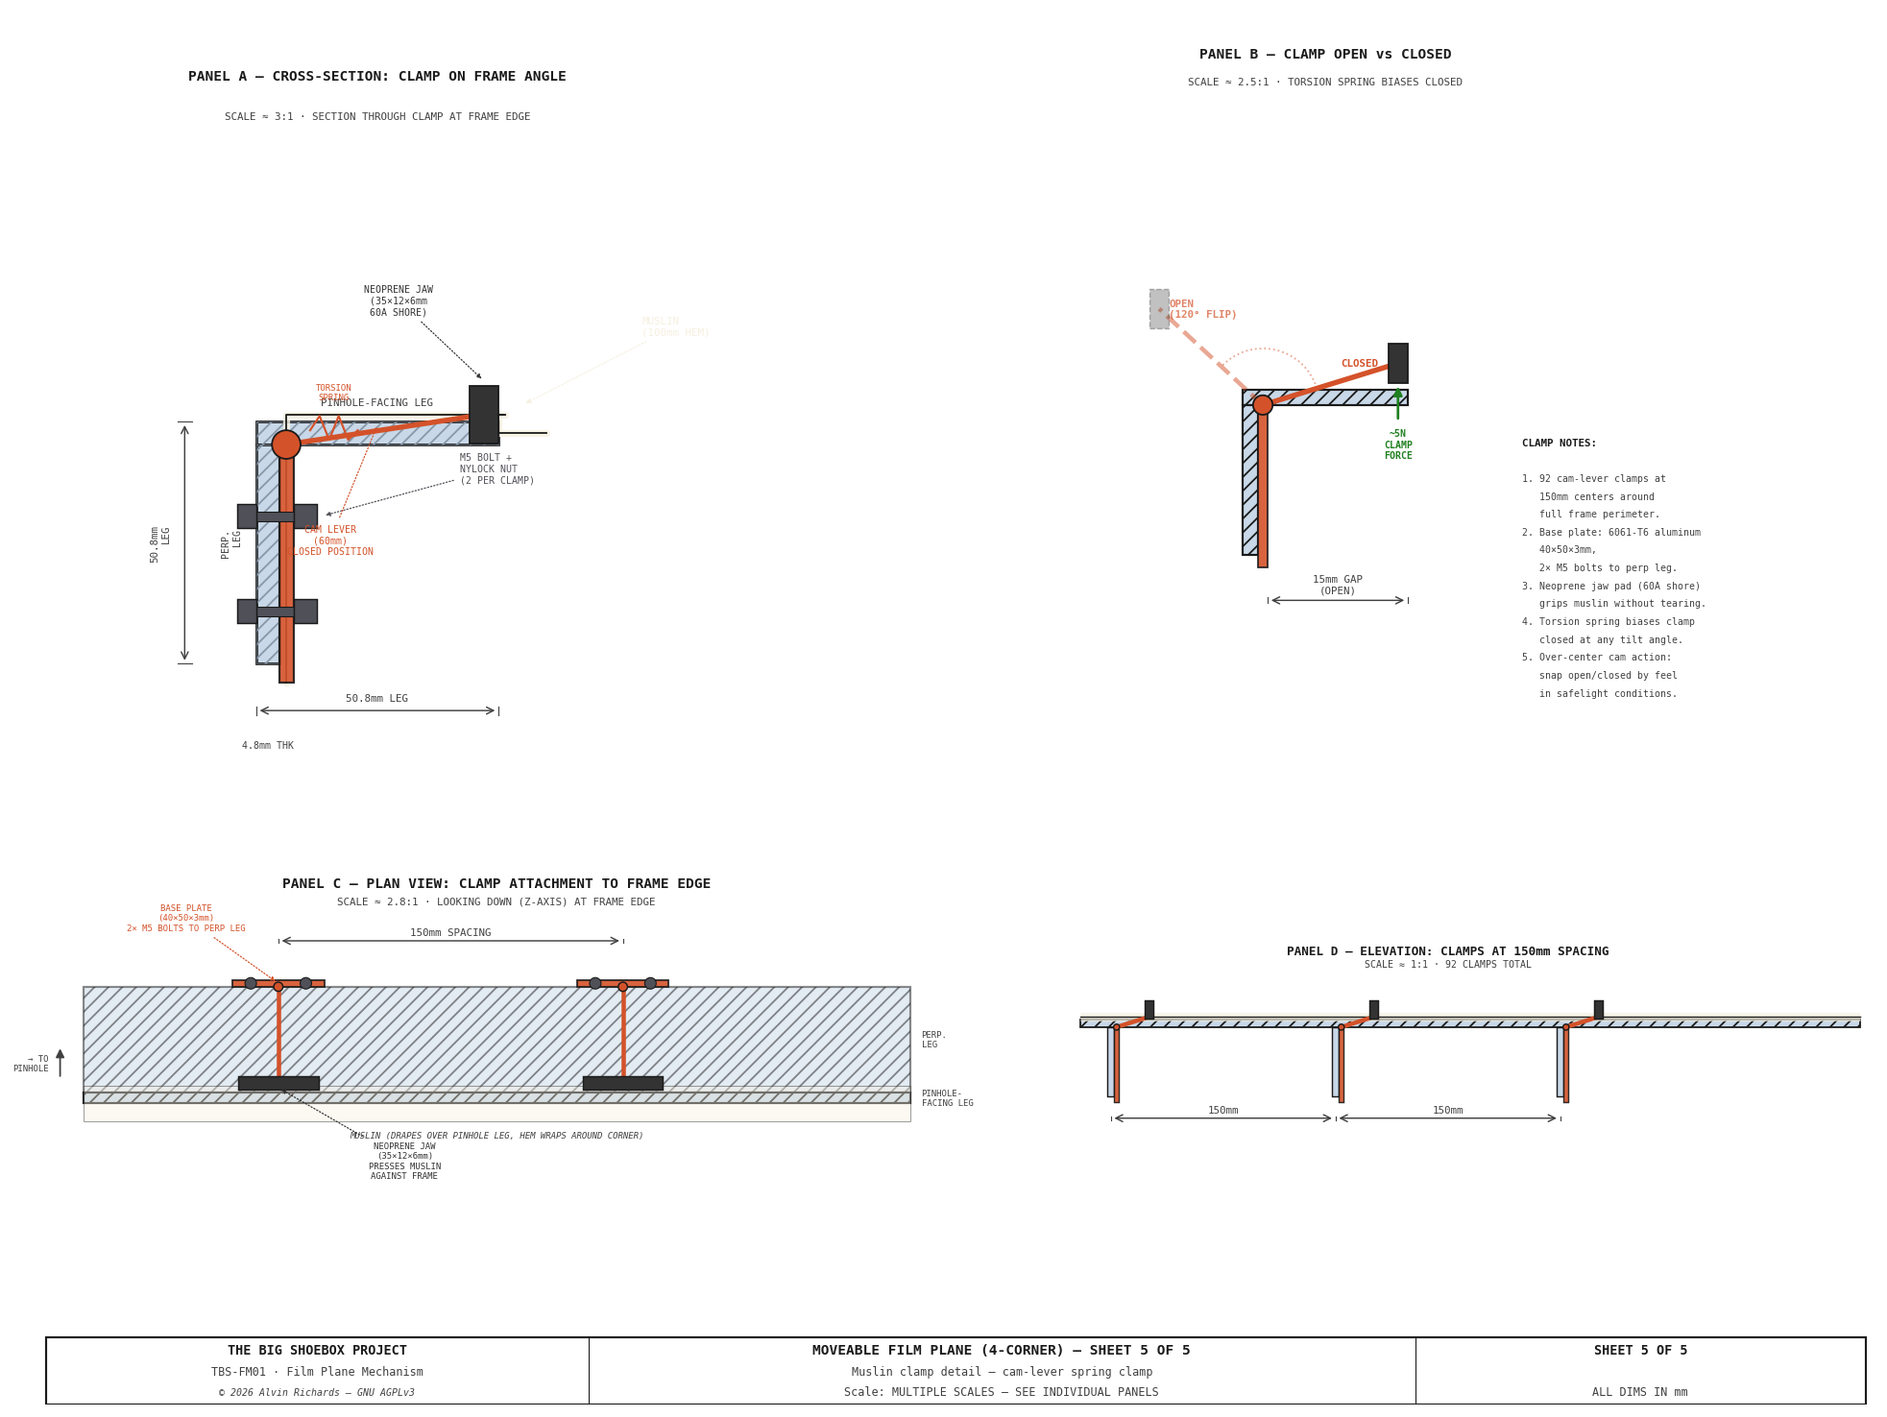
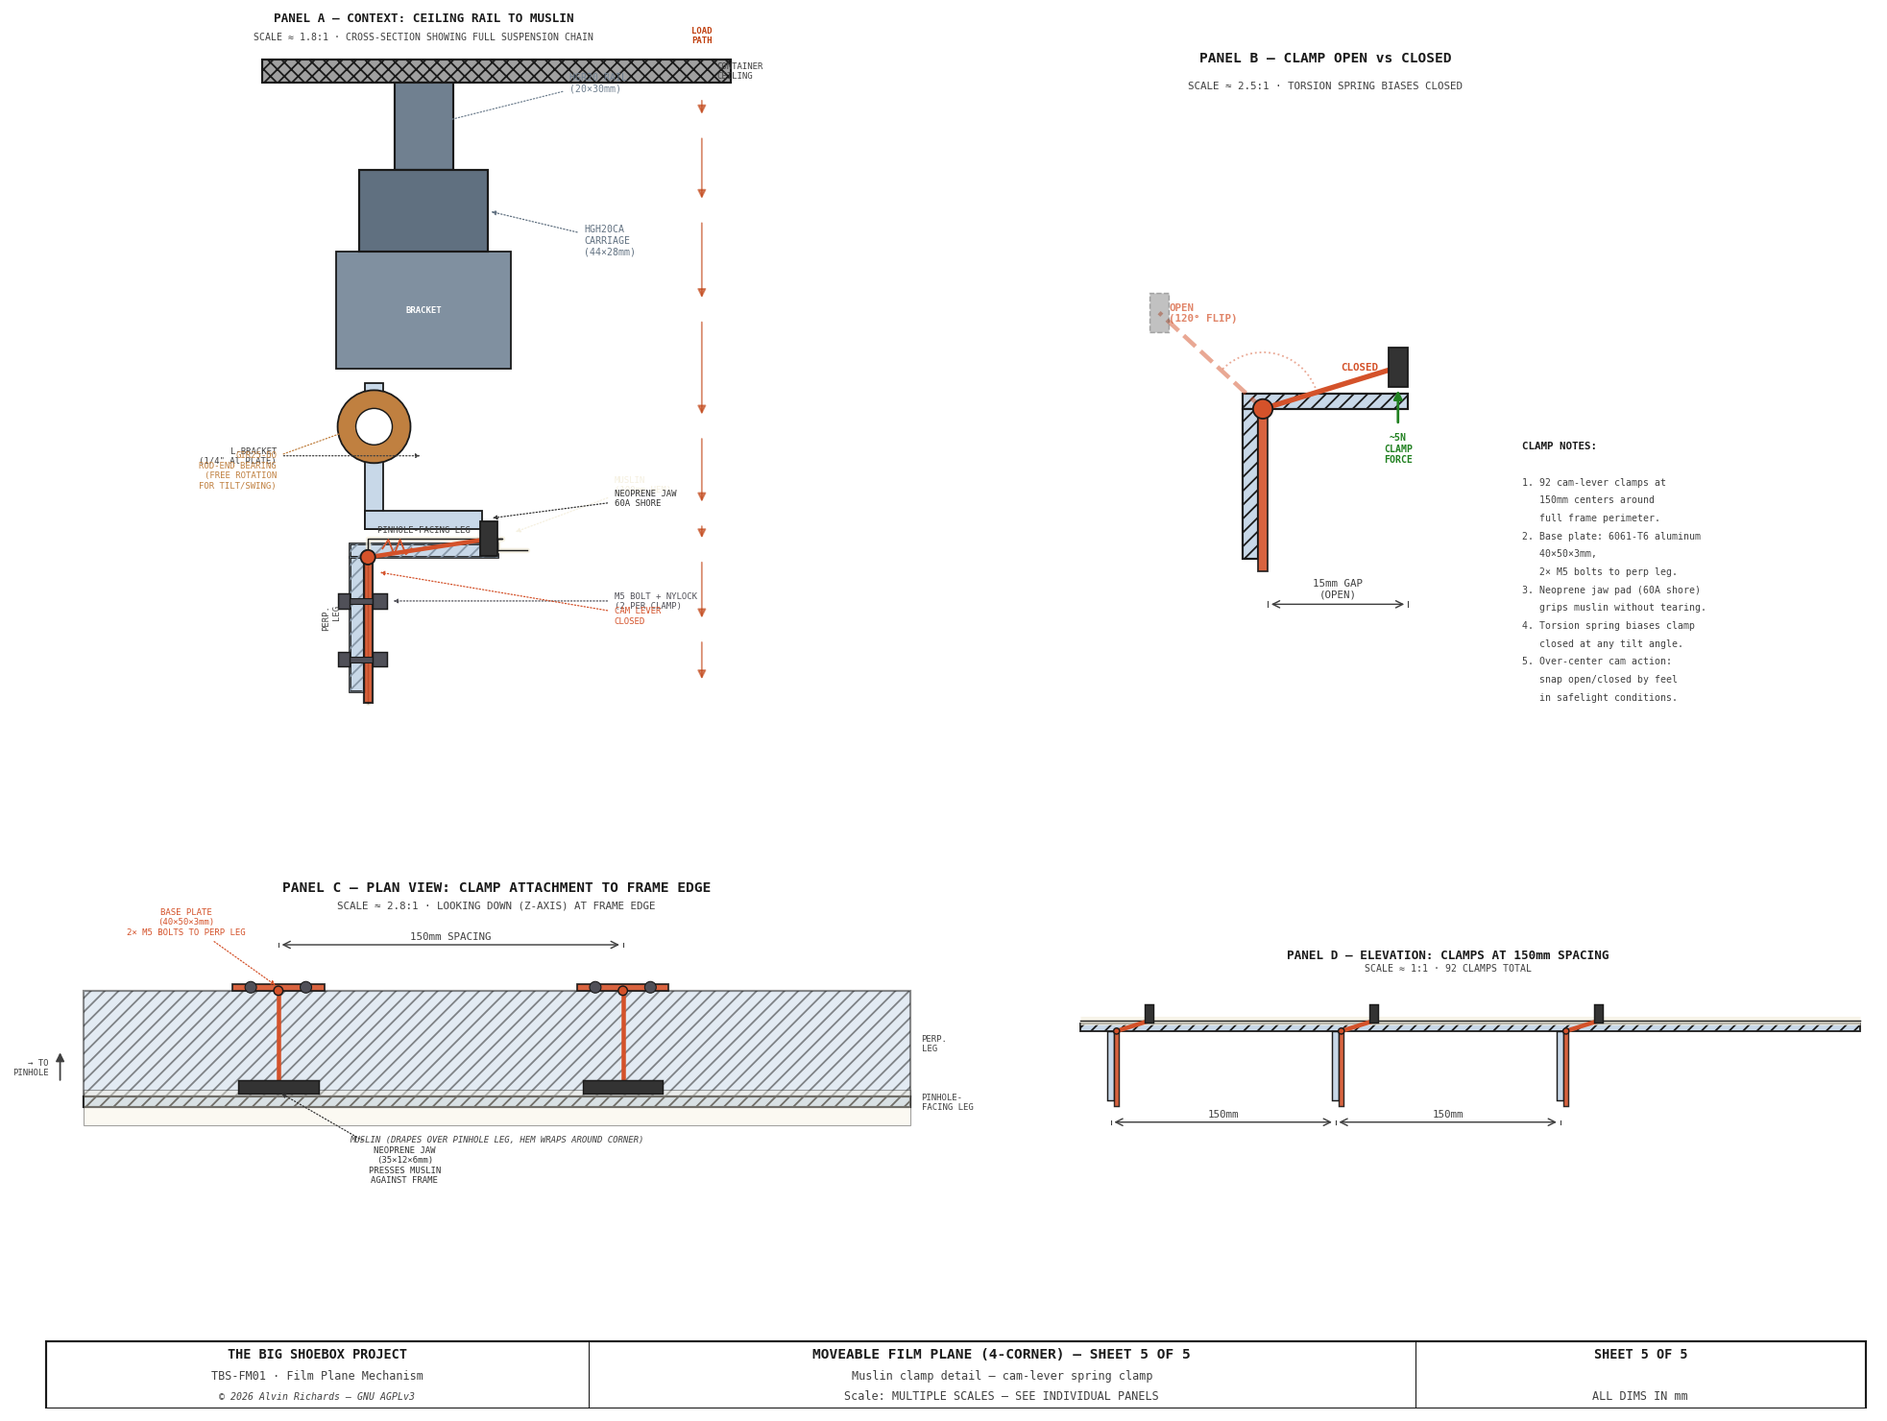
Expand sheet 5 Panel A to show full ceiling-to-muslin context
Replace isolated clamp cross-section with full suspension chain:
ceiling → HGR20 rail → HGH20CA carriage → bracket → L-bracket →
GIR25-DO rod-end bearing → angle frame → clamp → muslin. Load
path arrows annotate the vertical chain. Scale reduced to 1.8:1
to fit the full vertical extent.

diff --git a/generate_film_plane_mechanism.py b/generate_film_plane_mechanism.py
@@ -930,153 +930,258 @@ def sheet5():
     fig = plt.figure(figsize=(16, 12))
     fig.patch.set_facecolor(BG)
 
-    # ── PANEL A: Cross-section of clamp on frame angle (top-left) ────────────
+    # ── PANEL A: Context cross-section — ceiling rail to muslin (top-left) ────
     ax_a = fig.add_axes([0.04, 0.45, 0.46, 0.48])
     ax_a.set_facecolor(BG)
     ax_a.axis("off")
 
-    S = 3.0  # scale factor for panel A
+    S = 1.8  # reduced scale to fit full vertical chain
     def sa(mm): return mm * S
 
     LEG = FP_ANGLE_LEG   # 50.8mm
     T   = FP_ANGLE_T     # 4.8mm
 
-    # Coordinate system: pinhole-facing leg is horizontal (Yd axis),
-    # perpendicular leg is vertical (Z axis). Corner of angle at origin.
-    ax_a.set_xlim(sa(-30), sa(LEG + 80))
-    ax_a.set_ylim(sa(-60), sa(LEG + 40))
+    # Geometry constants for the suspension chain
+    RAIL_H = 30       # HGR20 rail height
+    RAIL_W = 20       # HGR20 rail visible width
+    CARRIAGE_H = 28   # HGH20CA carriage height
+    CARRIAGE_W = 44   # HGH20CA carriage width
+    BRACKET_H = 40    # suspension bracket height
+    BRACKET_W = 60    # suspension bracket width
+    LBRACKET_H = 50   # corner L-bracket vertical extent
+    LBRACKET_W = 40   # corner L-bracket horizontal extent
+    LBRACKET_T = 6    # 1/4" aluminum plate
+    BEARING_D = 25    # GIR25-DO rod-end bore
+    CEILING_T = 8     # visual ceiling thickness
+
+    # Coordinate system: angle corner at (0, 0).
+    # Positive Y = up toward ceiling. Negative Y = down toward floor.
+    # Positive X = toward pinhole (horizontal leg direction).
+
+    # Stack heights above angle frame top (Y=T):
+    lbracket_bot = T + 5          # small gap above angle
+    lbracket_top = lbracket_bot + LBRACKET_H
+    bearing_cy = lbracket_top - 15  # bearing center in L-bracket
+    bracket_bot = lbracket_top + 5
+    bracket_top = bracket_bot + BRACKET_H
+    carriage_bot = bracket_top
+    carriage_top = carriage_bot + CARRIAGE_H
+    rail_bot = carriage_top
+    rail_top = rail_bot + RAIL_H
+    ceiling_bot = rail_top
+    ceiling_top = ceiling_bot + CEILING_T
+
+    ax_a.set_xlim(sa(-35), sa(LEG + 85))
+    ax_a.set_ylim(sa(-LEG - 10), sa(ceiling_top + 15))
     ax_a.set_aspect("equal")
 
-    # Aluminum angle — L-profile
-    # Pinhole-facing leg: horizontal, from (0,0) to (LEG, T)
+    # ── Ceiling ──────────────────────────────────────────────────────────────
+    C_CEIL = "#A0A0A0"
+    ax_a.add_patch(Rectangle((sa(-30), sa(ceiling_bot)),
+                              sa(LEG + 110), sa(CEILING_T),
+                              fc=C_CEIL, ec=ANNO, lw=1.2, hatch="xxx", zorder=3))
+    ax_a.text(sa(LEG + 75), sa(ceiling_bot + CEILING_T / 2),
+              "CONTAINER\nCEILING", ha="left", va="center",
+              fontsize=5, color=DIM, **FONT, zorder=15)
+
+    # ── HGR20 Rail (bolted to ceiling, hangs down) ───────────────────────────
+    C_RAIL = "#708090"
+    rail_cx = LEG / 2  # centered on angle
+    ax_a.add_patch(Rectangle((sa(rail_cx - RAIL_W / 2), sa(rail_bot)),
+                              sa(RAIL_W), sa(RAIL_H),
+                              fc=C_RAIL, ec=ANNO, lw=1.2, zorder=4))
+    leader(ax_a, sa(rail_cx), sa(rail_bot + RAIL_H / 2),
+           sa(rail_cx + 50), sa(rail_bot + RAIL_H / 2 + 15),
+           f"HGR20 RAIL\n({RAIL_W}×{RAIL_H}mm)",
+           color=C_RAIL, fs=5.5, ha="left", va="center",
+           arrow_style="-|>", font=FONT)
+
+    # ── HGH20CA Carriage block ───────────────────────────────────────────────
+    C_CARR = "#607080"
+    ax_a.add_patch(Rectangle((sa(rail_cx - CARRIAGE_W / 2), sa(carriage_bot)),
+                              sa(CARRIAGE_W), sa(CARRIAGE_H),
+                              fc=C_CARR, ec=ANNO, lw=1.2, zorder=5))
+    leader(ax_a, sa(rail_cx + CARRIAGE_W / 2), sa(carriage_bot + CARRIAGE_H / 2),
+           sa(rail_cx + 55), sa(carriage_bot + CARRIAGE_H / 2 - 10),
+           f"HGH20CA\nCARRIAGE\n({CARRIAGE_W}×{CARRIAGE_H}mm)",
+           color=C_CARR, fs=5.5, ha="left", va="center",
+           arrow_style="-|>", font=FONT)
+
+    # ── Suspension bracket ───────────────────────────────────────────────────
+    C_BRKT = "#8090A0"
+    ax_a.add_patch(Rectangle((sa(rail_cx - BRACKET_W / 2), sa(bracket_bot)),
+                              sa(BRACKET_W), sa(BRACKET_H),
+                              fc=C_BRKT, ec=ANNO, lw=1.0, zorder=4))
+    ax_a.text(sa(rail_cx), sa(bracket_bot + BRACKET_H / 2),
+              "BRACKET", ha="center", va="center",
+              fontsize=5, color="white", fontweight="bold", **FONT, zorder=15)
+
+    # ── Corner L-bracket (1/4" Al plate) ─────────────────────────────────────
+    # Vertical part connects to bracket above; horizontal part connects to angle
+    lbk_x = rail_cx - LBRACKET_W / 2
+    # Vertical arm
+    ax_a.add_patch(Rectangle((sa(lbk_x), sa(lbracket_bot)),
+                              sa(LBRACKET_T), sa(LBRACKET_H),
+                              fc=C_ALUM, ec=ANNO, lw=1.0, zorder=4))
+    # Horizontal arm (connects to angle frame)
+    ax_a.add_patch(Rectangle((sa(lbk_x), sa(lbracket_bot)),
+                              sa(LBRACKET_W), sa(LBRACKET_T),
+                              fc=C_ALUM, ec=ANNO, lw=1.0, zorder=4))
+    leader(ax_a, sa(lbk_x + LBRACKET_W / 2), sa(lbracket_bot + LBRACKET_H / 2),
+           sa(-25), sa(lbracket_bot + LBRACKET_H / 2),
+           f"L-BRACKET\n(1/4\" Al PLATE)",
+           color=DIM, fs=5, ha="right", va="center",
+           arrow_style="-|>", font=FONT)
+
+    # ── Rod-end spherical bearing ────────────────────────────────────────────
+    C_BEAR = "#C08040"
+    ax_a.add_patch(Circle((sa(lbk_x + LBRACKET_T / 2), sa(bearing_cy)),
+                           sa(BEARING_D / 2),
+                           fc=C_BEAR, ec=ANNO, lw=1.0, zorder=6))
+    ax_a.add_patch(Circle((sa(lbk_x + LBRACKET_T / 2), sa(bearing_cy)),
+                           sa(BEARING_D / 4),
+                           fc=BG, ec=ANNO, lw=0.8, zorder=7))
+    leader(ax_a, sa(lbk_x - 2), sa(bearing_cy),
+           sa(-25), sa(bearing_cy - 15),
+           f"GIR25-DO\nROD-END BEARING\n(FREE ROTATION\nFOR TILT/SWING)",
+           color=C_BEAR, fs=5, ha="right", va="center",
+           arrow_style="-|>", font=FONT)
+
+    # ── Aluminum angle — L-profile ───────────────────────────────────────────
+    # Pinhole-facing leg: horizontal
     ax_a.add_patch(Rectangle((sa(0), sa(0)), sa(LEG), sa(T),
                               fc=C_ALUM, ec=ANNO, lw=1.5, zorder=3))
-    # Perpendicular leg: vertical, from (0,0) to (T, -LEG) [going down]
+    # Perpendicular leg: vertical (going down)
     ax_a.add_patch(Rectangle((sa(0), sa(-LEG + T)), sa(T), sa(LEG - T),
                               fc=C_ALUM, ec=ANNO, lw=1.5, zorder=3))
-    # Hatching for angle cross-section
+    # Hatching
     ax_a.add_patch(Rectangle((sa(0), sa(0)), sa(LEG), sa(T),
                               fc="none", ec="#8898A8", lw=0.3, hatch="///", zorder=4))
     ax_a.add_patch(Rectangle((sa(0), sa(-LEG + T)), sa(T), sa(LEG - T),
                               fc="none", ec="#8898A8", lw=0.3, hatch="///", zorder=4))
 
     ax_a.text(sa(LEG / 2), sa(T + 3), "PINHOLE-FACING LEG",
-              ha="center", va="bottom", fontsize=6, color=DIM, **FONT, zorder=15)
+              ha="center", va="bottom", fontsize=5, color=DIM, **FONT, zorder=15)
     ax_a.text(sa(-3), sa(-LEG / 2 + T), "PERP.\nLEG",
-              ha="right", va="center", fontsize=5.5, color=DIM, rotation=90, **FONT, zorder=15)
+              ha="right", va="center", fontsize=5, color=DIM, rotation=90, **FONT, zorder=15)
 
     # ── Muslin wrap path ──────────────────────────────────────────────────────
-    # Muslin drapes over pinhole-facing leg, wraps around outside corner,
-    # hem hangs down along outside of perpendicular leg.
-    muslin_t = 1.5  # visual thickness for muslin line
-    hem_end = -CLAMP_BASE_H  # hem hangs to about here on perp leg
+    muslin_t = 1.5
+    hem_end = -CLAMP_BASE_H
 
-    # Path: from right side of pinhole leg, over top, around corner, down perp leg
     muslin_pts_x = [sa(LEG + 10), sa(LEG), sa(LEG), sa(LEG + muslin_t),
                     sa(LEG + muslin_t), sa(T + muslin_t), sa(T + muslin_t)]
     muslin_pts_y = [sa(T / 2), sa(T / 2), sa(T + muslin_t), sa(T + muslin_t),
                     sa(T + muslin_t), sa(T + muslin_t), sa(hem_end)]
 
-    ax_a.plot(muslin_pts_x, muslin_pts_y, color=C_MUSLIN, lw=4, solid_capstyle="round",
+    ax_a.plot(muslin_pts_x, muslin_pts_y, color=C_MUSLIN, lw=3, solid_capstyle="round",
               zorder=5, alpha=0.8)
-    ax_a.plot(muslin_pts_x, muslin_pts_y, color=ANNO, lw=1.0, zorder=6)
+    ax_a.plot(muslin_pts_x, muslin_pts_y, color=ANNO, lw=0.8, zorder=6)
 
     leader(ax_a, sa(LEG + 5), sa(T + muslin_t + 2),
-           sa(LEG + 30), sa(T + 20),
-           "MUSLIN\n(100mm HEM)", color=C_MUSLIN, fs=6,
+           sa(LEG + 40), sa(T + 20),
+           "MUSLIN\n(100mm HEM)", color=C_MUSLIN, fs=5,
            ha="left", va="center", arrow_style="-|>", font=FONT)
 
-    # ── Clamp base plate (bolted to perpendicular leg) ────────────────────────
-    base_x = T  # outer face of perp leg
-    base_y_top = 0
+    # ── Clamp base plate ─────────────────────────────────────────────────────
+    base_x = T
     base_y_bot = -CLAMP_BASE_H
     ax_a.add_patch(Rectangle((sa(base_x), sa(base_y_bot)),
                               sa(CLAMP_BASE_T), sa(CLAMP_BASE_H),
                               fc=C_CLAMP, ec=ANNO, lw=1.2, zorder=7, alpha=0.9))
 
-    # M5 bolts through base plate + perpendicular leg
+    # M5 bolts
     bolt_z1 = -15
     bolt_z2 = -35
     bolt_d = 5
     for bz in [bolt_z1, bolt_z2]:
-        # Shank through perp leg + base plate
         ax_a.add_patch(Rectangle((sa(0), sa(bz - bolt_d * 0.2)),
                                   sa(T + CLAMP_BASE_T), sa(bolt_d * 0.4),
                                   fc=C_BOLT, ec=ANNO, lw=0.6, zorder=10))
-        # Head on inside of perp leg
         ax_a.add_patch(Rectangle((sa(-4), sa(bz - bolt_d * 0.5)),
                                   sa(4), sa(bolt_d),
                                   fc=C_BOLT, ec=ANNO, lw=0.8, zorder=10))
-        # Nylock nut on outside
         ax_a.add_patch(Rectangle((sa(T + CLAMP_BASE_T), sa(bz - bolt_d * 0.5)),
                                   sa(5), sa(bolt_d),
                                   fc=C_BOLT, ec=ANNO, lw=0.8, zorder=10))
 
-    leader(ax_a, sa(T + CLAMP_BASE_T + 6), sa(bolt_z1),
-           sa(T + CLAMP_BASE_T + 35), sa(bolt_z1 + 10),
-           f"M5 BOLT +\nNYLOCK NUT\n(2 PER CLAMP)", color=C_BOLT, fs=5.5,
-           ha="left", va="center", arrow_style="-|>", font=FONT)
+    # ── Cam lever + jaw (closed) ─────────────────────────────────────────────
+    pivot_x = T + CLAMP_BASE_T / 2
+    pivot_z = 0
 
-    # ── Cam lever + jaw (closed position) ─────────────────────────────────────
-    # Pivot at top of base plate, jaw presses muslin against pinhole-facing leg
-    pivot_x = T + CLAMP_BASE_T / 2  # center of base plate
-    pivot_z = 0  # top of base plate = corner of angle
-
-    # Jaw pad (pressed against pinhole-facing leg outer face)
-    jaw_x = LEG - CLAMP_JAW_T  # against outer face of pinhole leg
+    jaw_x = LEG - CLAMP_JAW_T
     jaw_z_top = T + muslin_t + CLAMP_JAW_H / 2
     jaw_z_bot = T + muslin_t - CLAMP_JAW_H / 2
     ax_a.add_patch(Rectangle((sa(jaw_x), sa(jaw_z_bot)),
                               sa(CLAMP_JAW_T), sa(CLAMP_JAW_H),
                               fc=C_NEOP, ec=ANNO, lw=1.0, zorder=8))
 
-    # Lever arm from pivot to jaw
     ax_a.plot([sa(pivot_x), sa(jaw_x + CLAMP_JAW_T / 2)],
               [sa(pivot_z), sa(T + muslin_t)],
-              color=C_CLAMP, lw=3, solid_capstyle="round", zorder=7)
+              color=C_CLAMP, lw=2.5, solid_capstyle="round", zorder=7)
 
-    # Pivot circle
-    ax_a.add_patch(Circle((sa(pivot_x), sa(pivot_z)), sa(3),
+    ax_a.add_patch(Circle((sa(pivot_x), sa(pivot_z)), sa(2.5),
                            fc=C_CLAMP, ec=ANNO, lw=1.0, zorder=9))
 
-    # Spring schematic (small zigzag near pivot)
+    # Spring schematic
     sp_x = pivot_x + 5
     sp_z = pivot_z + 3
     spring_xs = [sa(sp_x), sa(sp_x + 2), sa(sp_x + 4), sa(sp_x + 6),
                  sa(sp_x + 8), sa(sp_x + 10)]
     spring_zs = [sa(sp_z), sa(sp_z + 3), sa(sp_z - 2), sa(sp_z + 3),
                  sa(sp_z - 2), sa(sp_z)]
-    ax_a.plot(spring_xs, spring_zs, color=C_CLAMP, lw=1.2, zorder=8)
-    ax_a.text(sa(sp_x + 5), sa(sp_z + 6), "TORSION\nSPRING",
-              ha="center", va="bottom", fontsize=5, color=C_CLAMP, **FONT, zorder=15)
+    ax_a.plot(spring_xs, spring_zs, color=C_CLAMP, lw=1.0, zorder=8)
+
+    # Leader labels for clamp components
+    leader(ax_a, sa(T + CLAMP_BASE_T + 6), sa(bolt_z1),
+           sa(LEG + 40), sa(bolt_z1),
+           f"M5 BOLT + NYLOCK\n(2 PER CLAMP)", color=C_BOLT, fs=5,
+           ha="left", va="center", arrow_style="-|>", font=FONT)
 
     leader(ax_a, sa(jaw_x + CLAMP_JAW_T / 2), sa(jaw_z_top + 1),
-           sa(jaw_x - 15), sa(jaw_z_top + 18),
-           f"NEOPRENE JAW\n({CLAMP_JAW_W}×{CLAMP_JAW_H}×{CLAMP_JAW_T}mm\n60A SHORE)",
-           color=C_NEOP, fs=5.5,
-           ha="center", va="center", arrow_style="-|>", font=FONT)
+           sa(LEG + 40), sa(jaw_z_top + 8),
+           f"NEOPRENE JAW\n60A SHORE", color=C_NEOP, fs=5,
+           ha="left", va="center", arrow_style="-|>", font=FONT)
 
-    leader(ax_a, sa((pivot_x + jaw_x) / 2), sa(T / 2 + 2),
-           sa((pivot_x + jaw_x) / 2 - 10), sa(-20),
-           f"CAM LEVER\n({CLAMP_LEVER_L}mm)\nCLOSED POSITION",
-           color=C_CLAMP, fs=5.5,
-           ha="center", va="center", arrow_style="-|>", font=FONT)
+    leader(ax_a, sa(pivot_x + 3), sa(pivot_z - 5),
+           sa(LEG + 40), sa(-20),
+           f"CAM LEVER\nCLOSED", color=C_CLAMP, fs=5,
+           ha="left", va="center", arrow_style="-|>", font=FONT)
 
-    # ── Dimension lines ──────────────────────────────────────────────────────
-    draw_dim_h(ax_a, sa(0), sa(LEG), sa(-LEG - 5),
-               f"{LEG}mm LEG", offset=sa(3), fs=6, font=FONT)
-    draw_dim_v(ax_a, sa(-15), sa(-LEG + T), sa(T),
-               f"{LEG}mm\nLEG", offset=sa(5), fs=6, right=False, font=FONT)
-    draw_dim_h(ax_a, sa(0), sa(T), sa(-LEG - 15),
-               f"{T}mm THK", offset=sa(3), fs=5.5, font=FONT)
+    # ── Load path annotation (right side) ────────────────────────────────────
+    # Vertical arrow showing load path direction
+    path_x = LEG + 70
+    arrow_positions = [
+        (ceiling_bot - 2, "CEILING"),
+        (rail_bot + RAIL_H / 2, "HGR20 RAIL"),
+        (carriage_bot + CARRIAGE_H / 2, "CARRIAGE"),
+        (bracket_bot + BRACKET_H / 2, "BRACKET"),
+        (bearing_cy, "BEARING"),
+        (lbracket_bot + 5, "L-BRACKET"),
+        (T / 2, "ANGLE FRAME"),
+        (-25, "CLAMP"),
+        (-LEG + T, "MUSLIN"),
+    ]
+    for i in range(len(arrow_positions) - 1):
+        y1 = arrow_positions[i][0]
+        y2 = arrow_positions[i + 1][0]
+        ax_a.annotate("", xy=(sa(path_x), sa(y2 + 3)),
+                      xytext=(sa(path_x), sa(y1 - 3)),
+                      arrowprops=dict(arrowstyle="-|>", color="#C04010",
+                                      lw=1.0, alpha=0.6))
 
-    ax_a.text(sa(LEG / 2), sa(LEG + 25),
-              "PANEL A — CROSS-SECTION: CLAMP ON FRAME ANGLE",
-              ha="center", va="bottom", fontsize=8, color=ANNO,
+    ax_a.text(sa(path_x), sa(ceiling_top + 5),
+              "LOAD\nPATH", ha="center", va="bottom",
+              fontsize=5, color="#C04010", fontweight="bold", **FONT, zorder=15)
+
+    # Panel title
+    ax_a.text(sa(LEG / 2), sa(ceiling_top + 12),
+              "PANEL A — CONTEXT: CEILING RAIL TO MUSLIN",
+              ha="center", va="bottom", fontsize=7, color=ANNO,
               fontweight="bold", **FONT, zorder=15)
-    ax_a.text(sa(LEG / 2), sa(LEG + 17),
-              "SCALE ≈ 3:1 · SECTION THROUGH CLAMP AT FRAME EDGE",
-              ha="center", va="bottom", fontsize=6, color=DIM, **FONT, zorder=15)
+    ax_a.text(sa(LEG / 2), sa(ceiling_top + 6),
+              "SCALE ≈ 1.8:1 · CROSS-SECTION SHOWING FULL SUSPENSION CHAIN",
+              ha="center", va="bottom", fontsize=5.5, color=DIM, **FONT, zorder=15)
 
     # ── PANEL B: Open vs closed positions (top-right) ────────────────────────
     ax_b = fig.add_axes([0.54, 0.45, 0.42, 0.48])
